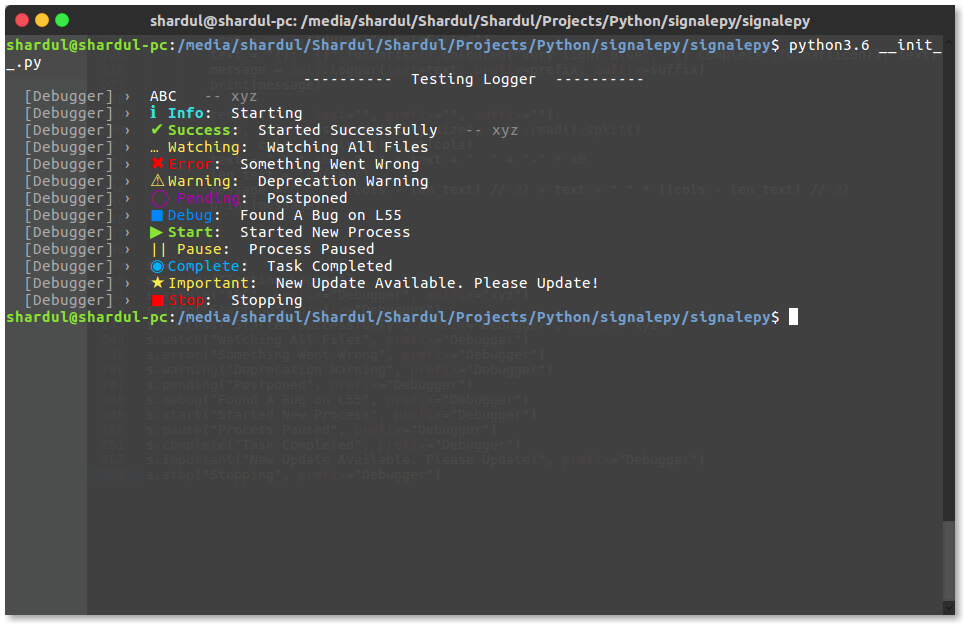
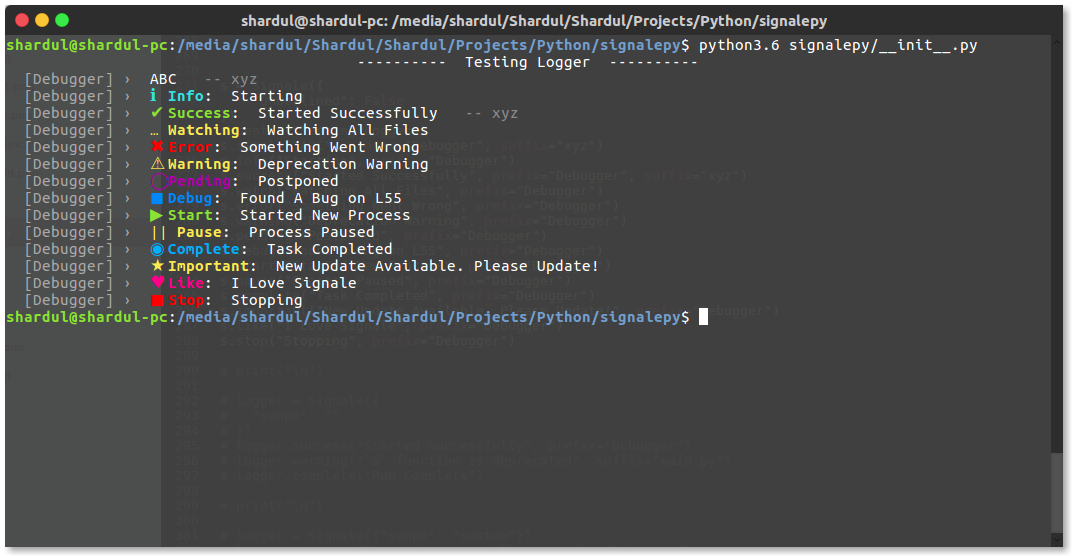
Added Option for Underlined Labels

Changed region(s): [[0.0, 0.0, 0.9647, 0.5809], [0.9647, 0.795, 0.9959, 0.8561]]

diff --git a/signalepy/__init__.py b/signalepy/__init__.py
@@ -42,7 +42,7 @@ from sys import platform, stdout
 
 class Signale:
 
-	def __init__(self, opts={"scope": None}):
+	def __init__(self, opts={"scope": None, "underlined": False}):
 
 		self.options = opts
 
@@ -54,10 +54,18 @@ class Signale:
 		except KeyError:
 			pass
 
-		scope = opts["scope"]
-		if scope != None:
-			self.scope = scope if scope != "" else "global"
-		else:
+		try:
+			self.underlined = opts["underlined"]
+		except KeyError:
+			self.underlined = False
+
+		try:
+			scope = opts["scope"]
+			if scope != None:
+				self.scope = scope if scope != "" else "global"
+			else:
+				self.scope = None
+		except KeyError:
 			self.scope = None
 
 		if platform == "win32":
@@ -113,6 +121,13 @@ class Signale:
 		reset = self.colors["reset"]
 		return f"{color}{text}{reset}"
 
+	def logger_label(self, color, icon, label):
+		if self.underlined == True:
+			label = f"\u001b[4m{label}\u001b[0m"
+		label = f"\u001b[1m{label}\u001b[0m"
+		label = self.coloured(color, "{} {}".format(icon, label))
+		return label
+
 	def logger(self, text="", prefix="", suffix=""):
 		message = ""
 		if prefix != "":
@@ -143,7 +158,7 @@ class Signale:
 		return message
 
 	def log(self, text="", prefix="", suffix="", conf={}):
-		text = "{}:  {}".format(self.coloured(conf["color"], "{} {}".format(conf["badge"], conf["label"])), text)
+		text = "{}:  {}".format(self.logger_label(conf["color"], conf["badge"], "{}".format(conf["label"])), text)
 		message = self.logger(text, prefix, suffix)
 		print(message)
 
@@ -152,79 +167,79 @@ class Signale:
 
 	def success(self, text="", prefix="", suffix=""):
 		tick = self.figures["tick"]
-		text = "{}:  {}".format(self.coloured("green", "{} Success".format(tick)), text)
+		text = "{}:  {}".format(self.logger_label("green", tick, "Success"), text)
 		message = self.logger(text=text, prefix=prefix, suffix=suffix)
 		print(message)
 
 	def start(self, text="", prefix="", suffix=""):
 		icon = self.figures["play"]
-		text = "{}:  {}".format(self.coloured("green", "{} Start".format(icon)), text)
+		text = "{}:  {}".format(self.logger_label("green", icon, "Start"), text)
 		message = self.logger(text=text, prefix=prefix, suffix=suffix)
 		print(message)
 
 	def error(self, text="", prefix="", suffix=""):
 		cross = self.figures["cross"]
-		text = "{}:  {}".format(self.coloured("red", "{} Error".format(cross)), text)
+		text = "{}:  {}".format(self.logger_label("red", cross, "Error"), text)
 		message = self.logger(text=text, prefix=prefix, suffix=suffix)
 		print(message)
 
 	def warning(self, text="", prefix="", suffix=""):
 		icon = self.figures["warning"]
-		text = "{}:  {}".format(self.coloured("yellow", "{} Warning".format(icon)), text)
+		text = "{}:  {}".format(self.logger_label("yellow", icon, "Warning"), text)
 		message = self.logger(text=text, prefix=prefix, suffix=suffix)
 		print(message)
 
 	def watch(self, text="", prefix="", suffix=""):
 		icon = self.figures["ellipsis"]
-		text = "{}:  {}".format(self.coloured("yellow", "{} Watching".format(icon)), text)
+		text = "{}:  {}".format(self.logger_label("yellow", icon, "Watching"), text)
 		message = self.logger(text=text, prefix=prefix, suffix=suffix)
 		print(message)
 
 	def stop(self, text="", prefix="", suffix=""):
 		icon = self.figures["squareSmallFilled"]
-		text = "{}:  {}".format(self.coloured("red", "{} Stop".format(icon)), text)
+		text = "{}:  {}".format(self.logger_label("red", icon, "Stop"), text)
 		message = self.logger(text=text, prefix=prefix, suffix=suffix)
 		print(message)
 
 	def important(self, text="", prefix="", suffix=""):
 		icon = self.figures["star"]
-		text = "{}:  {}".format(self.coloured("yellow", "{} Important".format(icon)), text)
+		text = "{}:  {}".format(self.logger_label("yellow", icon, "Important"), text)
 		message = self.logger(text=text, prefix=prefix, suffix=suffix)
 		print(message)
 
 	def pending(self, text="", prefix="", suffix=""):
 		icon = self.figures["radioOff"]
-		text = "{}:  {}".format(self.coloured("purple", "{}  Pending".format(icon)), text)
+		text = "{}:  {}".format(self.logger_label("purple", icon, "Pending"), text)
 		message = self.logger(text=text, prefix=prefix, suffix=suffix)
 		print(message)
 
 	def debug(self, text="", prefix="", suffix=""):
 		icon = self.figures["squareSmallFilled"]
-		text = "{}:  {}".format(self.coloured("dark blue", "{} Debug".format(icon)), text)
+		text = "{}:  {}".format(self.logger_label("dark blue", icon, "Debug"), text)
 		message = self.logger(text=text, prefix=prefix, suffix=suffix)
 		print(message)
 
 	def info(self, text="", prefix="", suffix=""):
 		icon = self.figures["info"]
-		text = "{}:  {}".format(self.coloured("cyan", "{} Info".format(icon)), text)
+		text = "{}:  {}".format(self.logger_label("cyan", icon, "Info"), text)
 		message = self.logger(text=text, prefix=prefix, suffix=suffix)
 		print(message)
 
 	def pause(self, text="", prefix="", suffix=""):
 		icon = self.figures["pause"]
-		text = "{}:  {}".format(self.coloured("yellow", "{} Pause".format(icon)), text)
+		text = "{}:  {}".format(self.logger_label("yellow", icon, "Pause"), text)
 		message = self.logger(text=text, prefix=prefix, suffix=suffix)
 		print(message)
 
 	def complete(self, text="", prefix="", suffix=""):
 		icon = self.figures["radioOn"]
-		text = "{}:  {}".format(self.coloured("very light blue", "{} Complete".format(icon)), text)
+		text = "{}:  {}".format(self.logger_label("very light blue", icon, "Complete"), text)
 		message = self.logger(text=text, prefix=prefix, suffix=suffix)
 		print(message)
 
 	def like(self, text="", prefix="", suffix=""):
 		icon = self.figures["heart"]
-		text = "{}:  {}".format(self.coloured("pink", "{} Like".format(icon)), text)
+		text = "{}:  {}".format(self.logger_label("pink", icon, "Like"), text)
 		message = self.logger(text=text, prefix=prefix, suffix=suffix)
 		print(message)
 
@@ -253,7 +268,9 @@ class Signale:
 
 
 
-# s = Signale()
+# s = Signale({
+# 	"underlined": False
+# })
 # s.center("Testing Logger")
 # s.simple("ABC", prefix="Debugger", suffix="xyz")
 # s.info("Starting", prefix="Debugger")
@@ -295,7 +312,8 @@ class Signale:
 # 			"color": "red",
 # 			"name": "attention"
 # 		}
-# 	]
+# 	],
+# 	"underlined": True
 # })
 
 # logger2 = logger.scoped("inner")

diff --git a/README.md b/README.md
@@ -195,6 +195,45 @@ This will produce the following result:-
 	<img src="./imgs/custom.png" align="center">
 </div>
 
+----------------------------------------------------------------------------------------------------------
+
+
+
+## Underlined Labels
+You can set labels to be underlined by setting the `underlined` field to `True` in the options passed to the constructor. For example:-
+
+````python
+
+from signalepy import Signale
+
+s = Signale({
+	"underlined": True
+})
+s.center("Testing Logger")
+s.simple("ABC", prefix="Debugger", suffix="xyz")
+s.info("Starting", prefix="Debugger")
+s.success("Started Successfully", prefix="Debugger", suffix="xyz")
+s.watch("Watching All Files", prefix="Debugger")
+s.error("Something Went Wrong", prefix="Debugger")
+s.warning("Deprecation Warning", prefix="Debugger")
+s.pending("Postponed", prefix="Debugger")
+s.debug("Found A Bug on L55", prefix="Debugger")
+s.start("Started New Process", prefix="Debugger")
+s.pause("Process Paused", prefix="Debugger")
+s.complete("Task Completed", prefix="Debugger")
+s.important("New Update Available. Please Update!", prefix="Debugger")
+s.like("I Love Signale", prefix="Debugger")
+s.stop("Stopping", prefix="Debugger")
+
+````
+
+This will produce the following result:-
+
+<div align="center">
+	<img src="./imgs/underlined.png" align="center">
+</div>
+
+
 
 ----------------------------------------------------------------------------------------------------------
 
@@ -212,6 +251,14 @@ Options taken by constructor
 	Signale Logger Scope
 
 	<br><br>
+
+3. `underlined`
+
+	<br>
+
+	- Type: `bool`
+
+	Labels Should Be Underlined Or Not
 
 2. `custom`
 
@@ -261,6 +308,8 @@ Options taken by constructor
 				- `yellow`
 				- `cyan`
 				- `reset` (color reset code)
+
+	<br><br>
 
 
 
